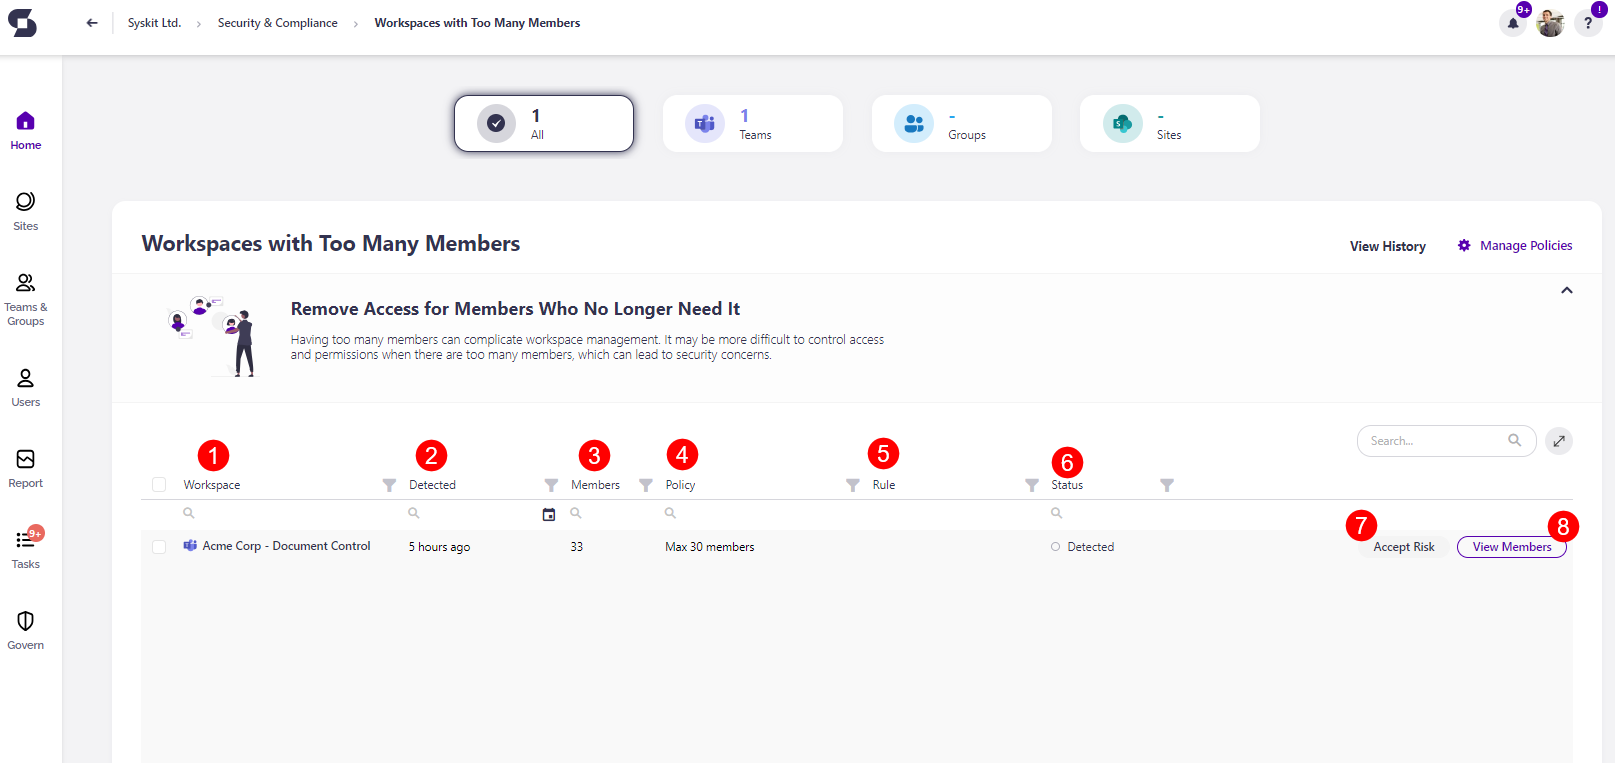
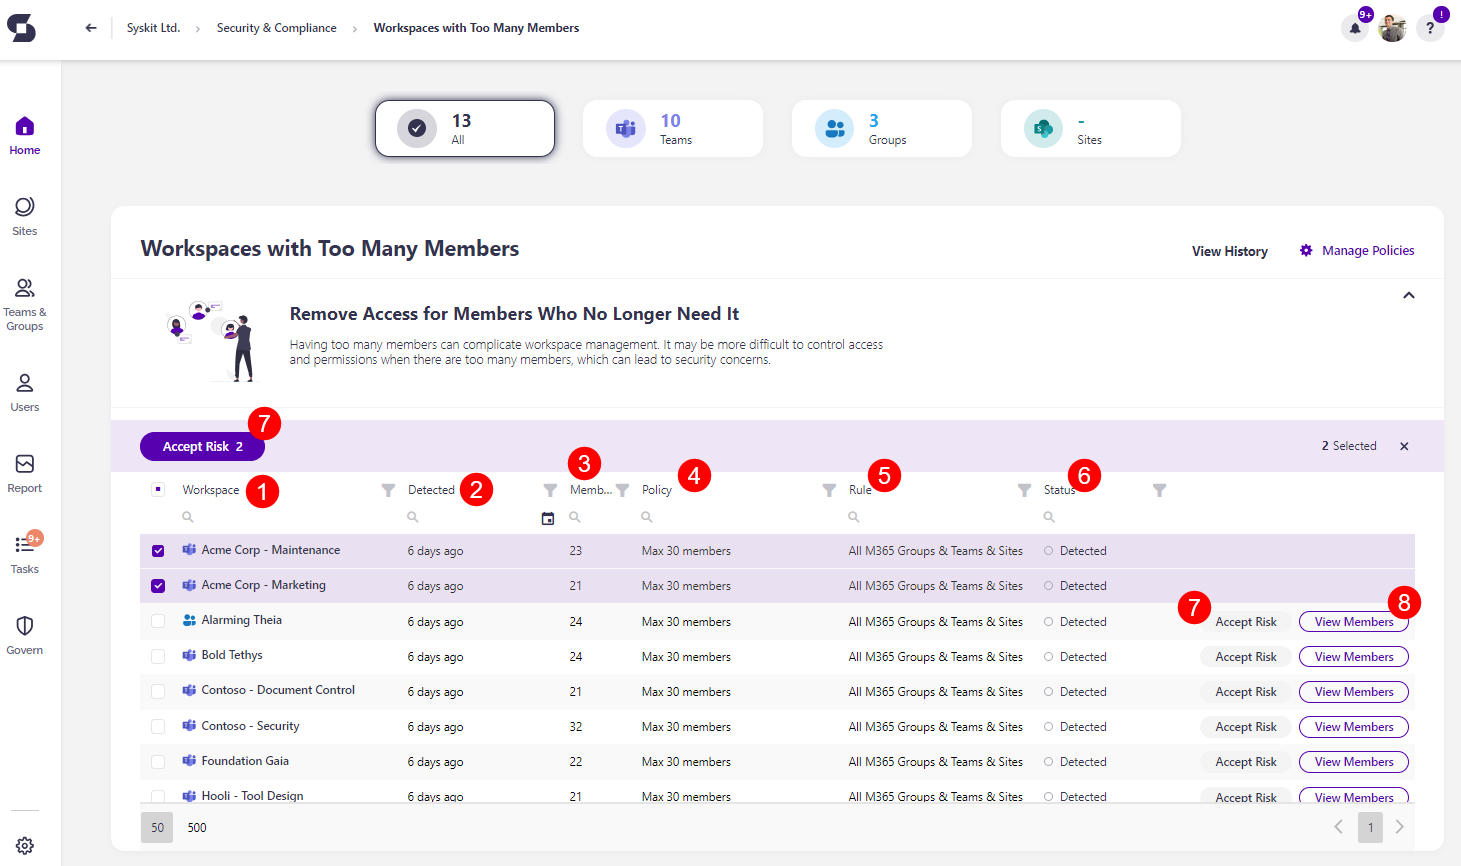
policies updates

diff --git a/governance-and-automation/security-compliance-checks/workspaces-with-too-many-members.md b/governance-and-automation/security-compliance-checks/workspaces-with-too-many-members.md
@@ -28,9 +28,12 @@ The report itself provides information on:
 
 You can complete the following actions for the policy vulnerability:
   * **Accept Risk (7)** - this means you will close the policy vulnerability without making any changes to the current state of the workspace
+    * By selecting multiple workspaces, you can perform the bulk **Accept Risk action (7)**
   * **View Members (8)** - this opens the screen where you can view more details
 
 ![Workspaces with Too Many Members](../../.gitbook/assets/security-compliance-checks-workspaces-too-many-members.png)
+
+## Accept Risk
 
 Clicking the Accept Risk button opens the Accept Risk pop-up. To delay this violation, complete the following:
 
@@ -39,3 +42,17 @@ Clicking the Accept Risk button opens the Accept Risk pop-up. To delay this viol
   * **Click the Accept Risk button (2)** to finalize your decision.
 
 ![Workspaces with Too Many Members - Accept Risk](../../.gitbook/assets/security-compliance-checks-workspaces-too-many-members-accept-risk.png)
+
+
+## View Members
+
+Clicking the View Members button opens the workspace screen that shows a list of all members included in the workspace. 
+
+To remove members that are no longer needed, complete the following:
+
+  * **Select one or more users (1)** that you want to remove from the workspace.
+    * Clicking View Access for any individual user generates the User Access report for that user.
+  * **Click the Remove from Group button (2)** which opens the Remove from Microsoft 365 Group pop-up.
+  * To finalize, **click Remove** on the pop-up and the user is removed from the members list for that workspace. 
+
+![Workspaces with Too Many Members - View Members](../../.gitbook/assets/security-compliance-checks-workspaces-too-many-members-view-members.png)

diff --git a/governance-and-automation/security-compliance-checks/workspaces-with-shadow-users.md b/governance-and-automation/security-compliance-checks/workspaces-with-shadow-users.md
@@ -41,7 +41,7 @@ Clicking the Accept Risk button opens the Accept Risk pop-up. To delay this viol
 ![Workspaces with Shadow Users - Accept Risk Action](../../.gitbook/assets/security-compliance-checks-shadow-users-accept-risk.png)
 
 
-To view and manage the shadow users for this workspace, click the **View Users button**.
+To view and manage the shadow users for this workspace, click the **View Users button** or the **name of the workspace**.
 
 This opens the Remove Access for Shadow users screen, where you can:
 
